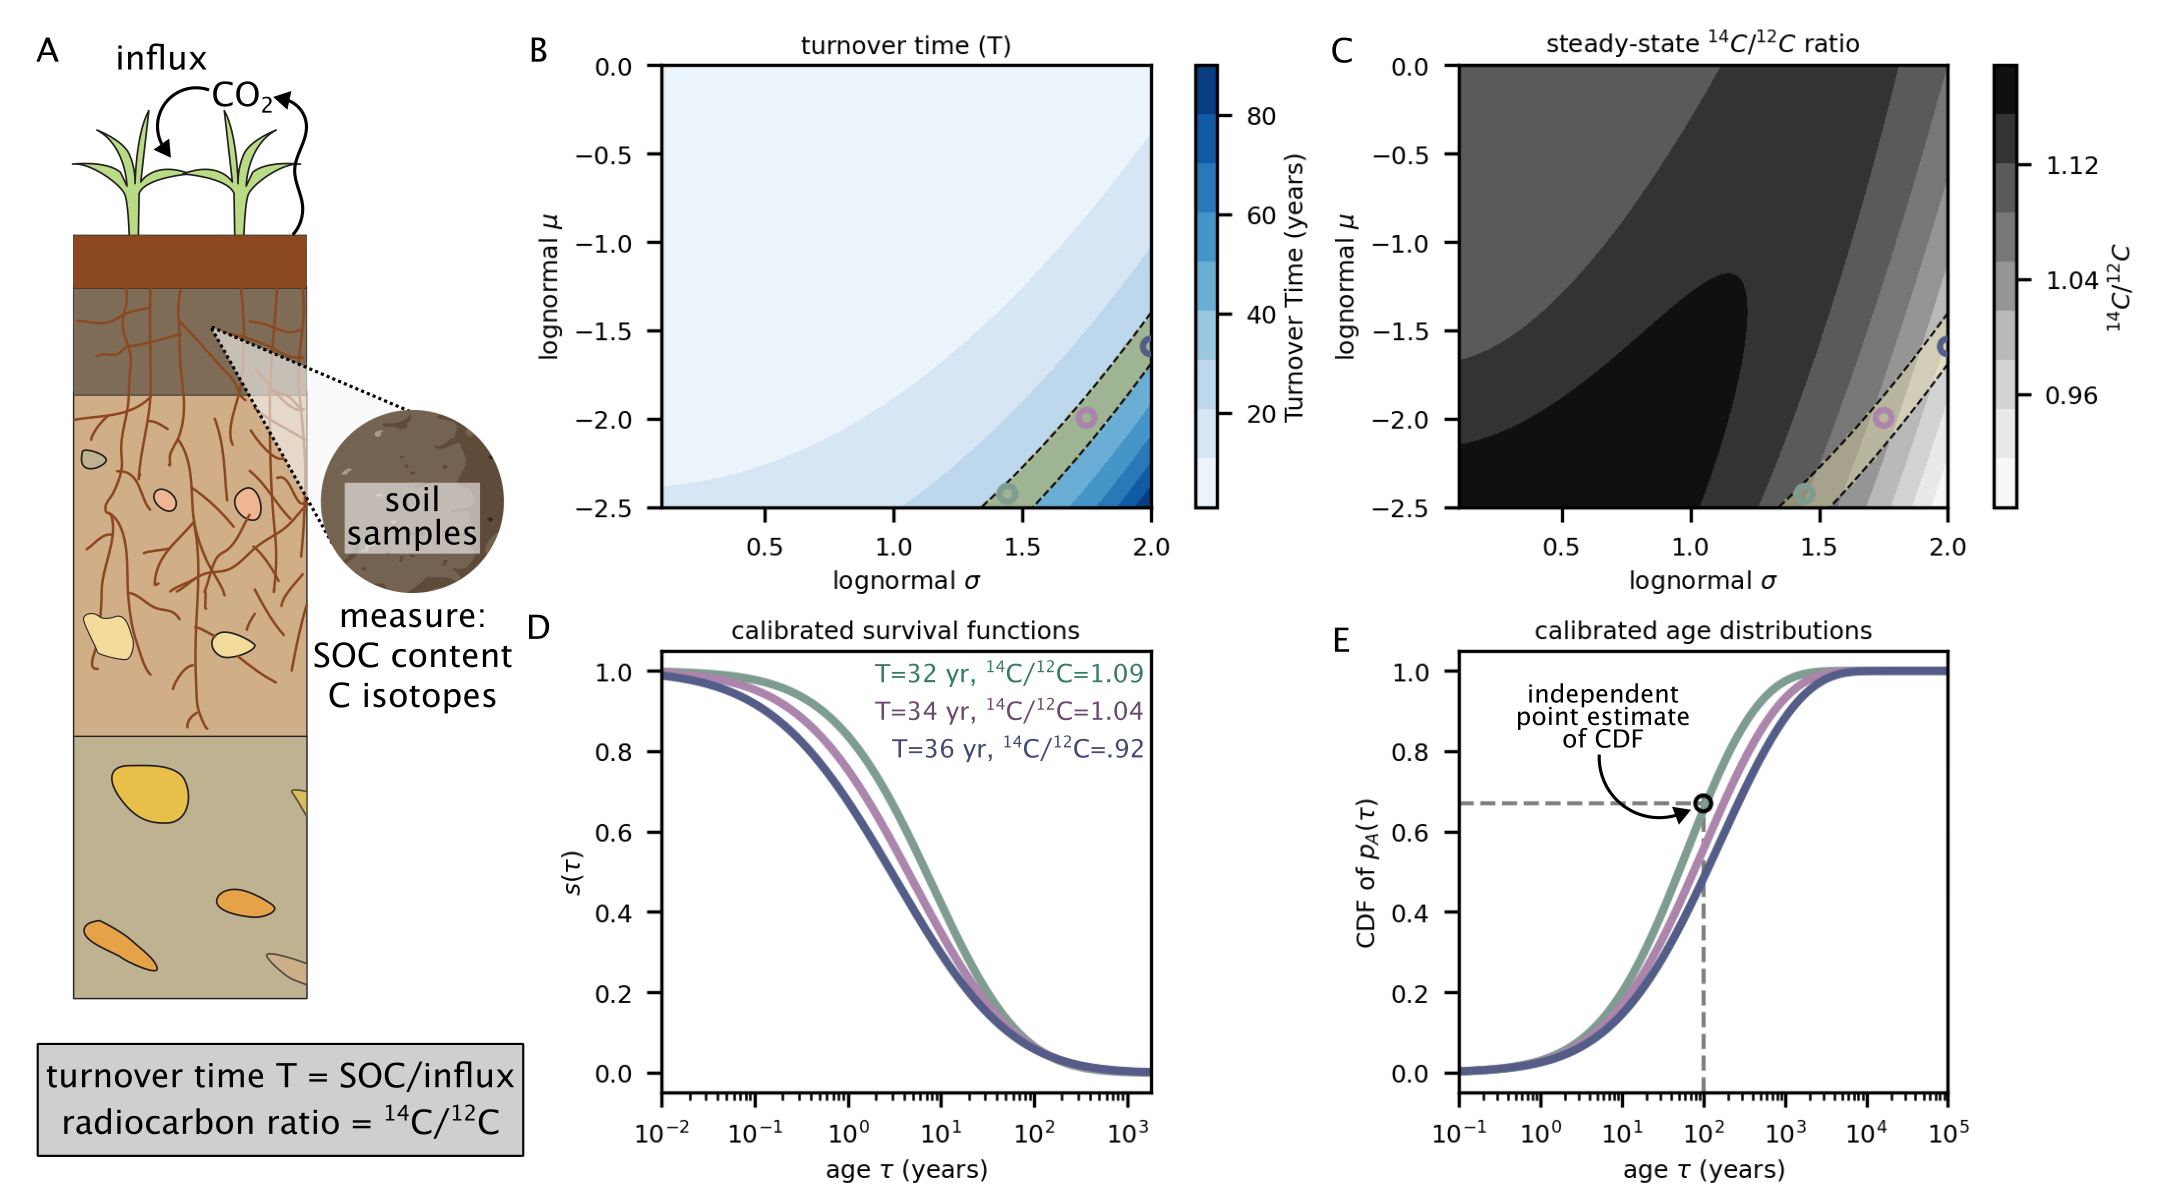
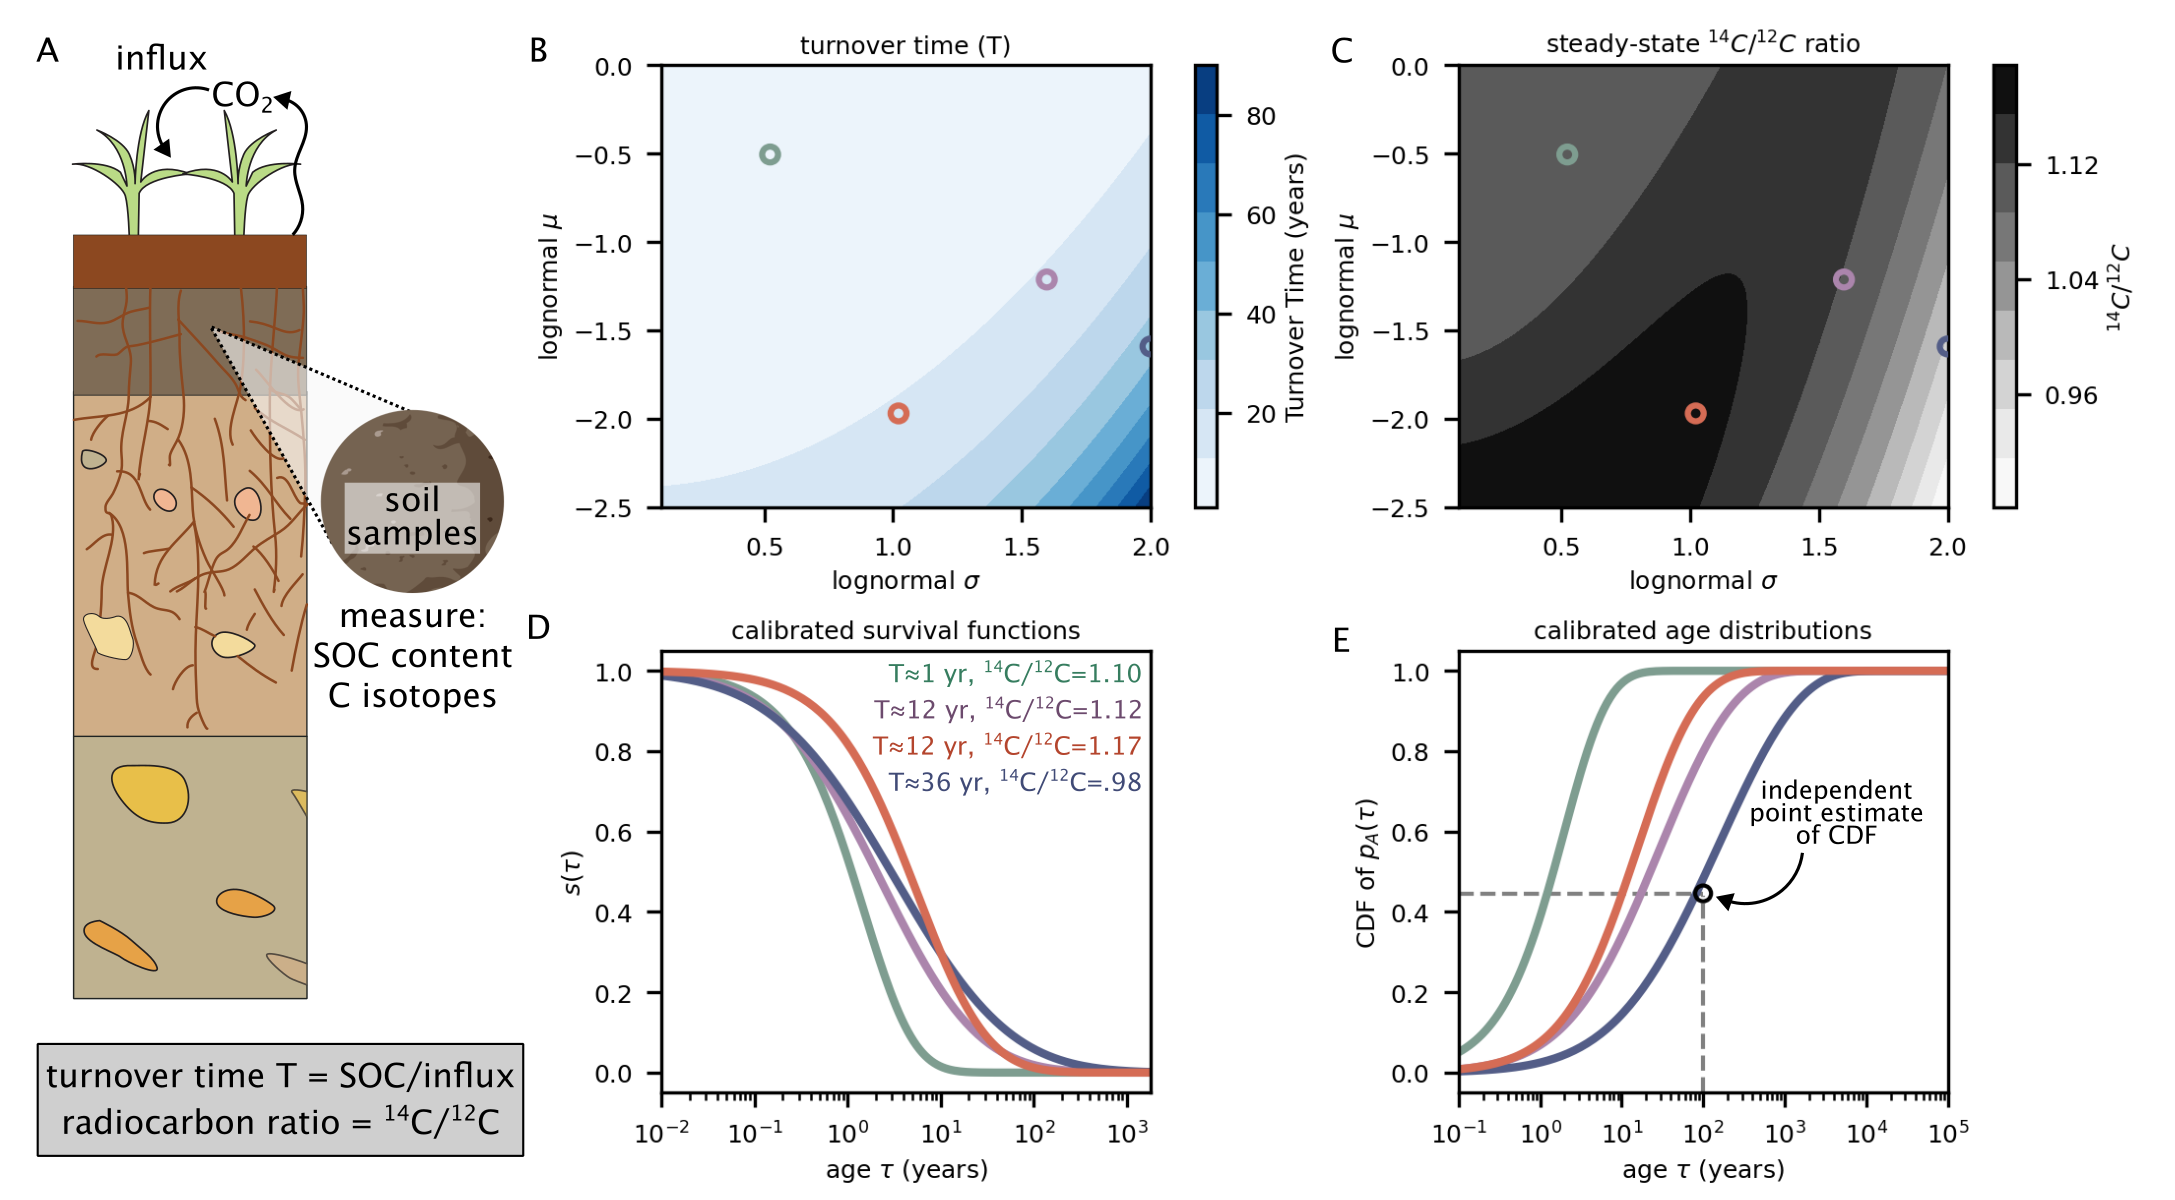
update fig2

diff --git a/notebooks/fig2.py b/notebooks/fig2.py
@@ -34,8 +34,8 @@ SIGMA, MU = np.meshgrid(sigma_values, mu_values, indexing='xy')
 
 # %% For a few target T and R_14C values, find the model
 # parameters that best reproduce those values.
-target_Ts = [32, 34, 36]
-target_R_14Cs = [1.09, 1.04, 0.92]
+target_Ts = [1.9, 12.0, 36, 12.1]
+target_R_14Cs = [1.096, 1.117, 0.92, 1.166]
 calibrated_Ts = []
 calibrated_R_14Cs = []
 calibrated_models = []
@@ -60,19 +60,14 @@ for target_T, target_R_14C in zip(target_Ts, target_R_14Cs):
     calibrated_R_14Cs.append(R_14C_matrix[min_idx])
     calibrated_models.append(LognormalDisKinFast(mu=mu_cal, sigma=sigma_cal, atm=atm))
 
+calibrated_colors = [colors[c] for c in ['dark_green', 'purple', 'dark_blue', 'red']]
+print('(T, R_14C, hex_color)')
+for T, R, color in zip(calibrated_Ts, calibrated_R_14Cs, calibrated_colors):
+    print(f'  ({T:.1g}, {R:.1g}, {color!r})')
+
 # %% Plot figure 2, which diagrams the calibration procedure.
 mosaic = 'ABC\nDEF'
 fig, axs = plt.subplot_mosaic(mosaic, layout='constrained', figsize=(7.24, 4))
-
-# --- band constants and plotting helpers ---
-BAND_LOW = 30
-BAND_HIGH = 40
-BAND_ALPHA = 0.35
-BAND_COLOR_B = "#ac9304"
-BAND_COLOR_C = "#fff4b2"
-
-# single mask reused across panels
-mask_band = (T_matrix >= BAND_LOW) & (T_matrix <= BAND_HIGH)
 
 def plot_calibrated_markers(ax, models, colors, s=15, lw=1.5):
     for my_model, color in zip(models, colors):
@@ -91,13 +86,6 @@ cbar = fig.colorbar(cf, ax=ax, label='Turnover Time (years)')
 cbar.ax.yaxis.set_major_locator(MaxNLocator(nbins=5))
 cbar.ax.yaxis.set_major_formatter(FormatStrFormatter('%.0f'))
 
-# Highlight band with translucent fill and dashed contours
-ax.contourf(SIGMA, MU, mask_band.astype(int), levels=[0.5, 1.5],
-            colors=[BAND_COLOR_B], alpha=BAND_ALPHA, zorder=2)
-ax.contour(SIGMA, MU, T_matrix, levels=[BAND_LOW, BAND_HIGH], colors='k',
-           linestyles='--', linewidths=0.5, zorder=3)
-
-calibrated_colors = [colors[c] for c in ['dark_green', 'purple', 'dark_blue']]
 plot_calibrated_markers(ax, calibrated_models, calibrated_colors)
 
 ax.set_xlabel(r'lognormal $\sigma$')
@@ -110,12 +98,6 @@ ax = axs['C']
 rmin, rmax = np.nanmin(R_14C_matrix), np.nanmax(R_14C_matrix)
 levels_R = np.linspace(rmin, rmax, 10)
 cf2 = ax.contourf(SIGMA, MU, R_14C_matrix, levels=levels_R, cmap='Greys', vmin=rmin, vmax=rmax)
-# Overlay the same T-band highlight on Panel C (use shared mask_band)
-ax.contourf(SIGMA, MU, mask_band.astype(int), levels=[0.5, 1.5],
-            colors=[BAND_COLOR_C], alpha=BAND_ALPHA, zorder=2)
-ax.contour(SIGMA, MU, T_matrix, levels=[BAND_LOW, BAND_HIGH], colors='k', linestyles='--', linewidths=0.5,
-           zorder=3)
-
 cbar2 = fig.colorbar(cf2, ax=ax, label='$^{14}C / ^{12}C$')
 # fewer, nicely formatted ticks for radiocarbon ratio
 cbar2.ax.yaxis.set_major_locator(MaxNLocator(nbins=5))
@@ -158,7 +140,7 @@ for my_model, color in zip(calibrated_models, calibrated_colors):
     cdf_A = integrate.cumulative_trapezoid(pA_normalized, ages_cdf, initial=0)
     plt.plot(ages_cdf, cdf_A, color=color, lw=2)
 
-obs_age, obs_CDF = 100, 0.67
+obs_age, obs_CDF = 100, 0.446
 plt.scatter([obs_age], [obs_CDF], color='none',
             edgecolor='k', marker='o', s=15, lw=1,
             zorder=10)